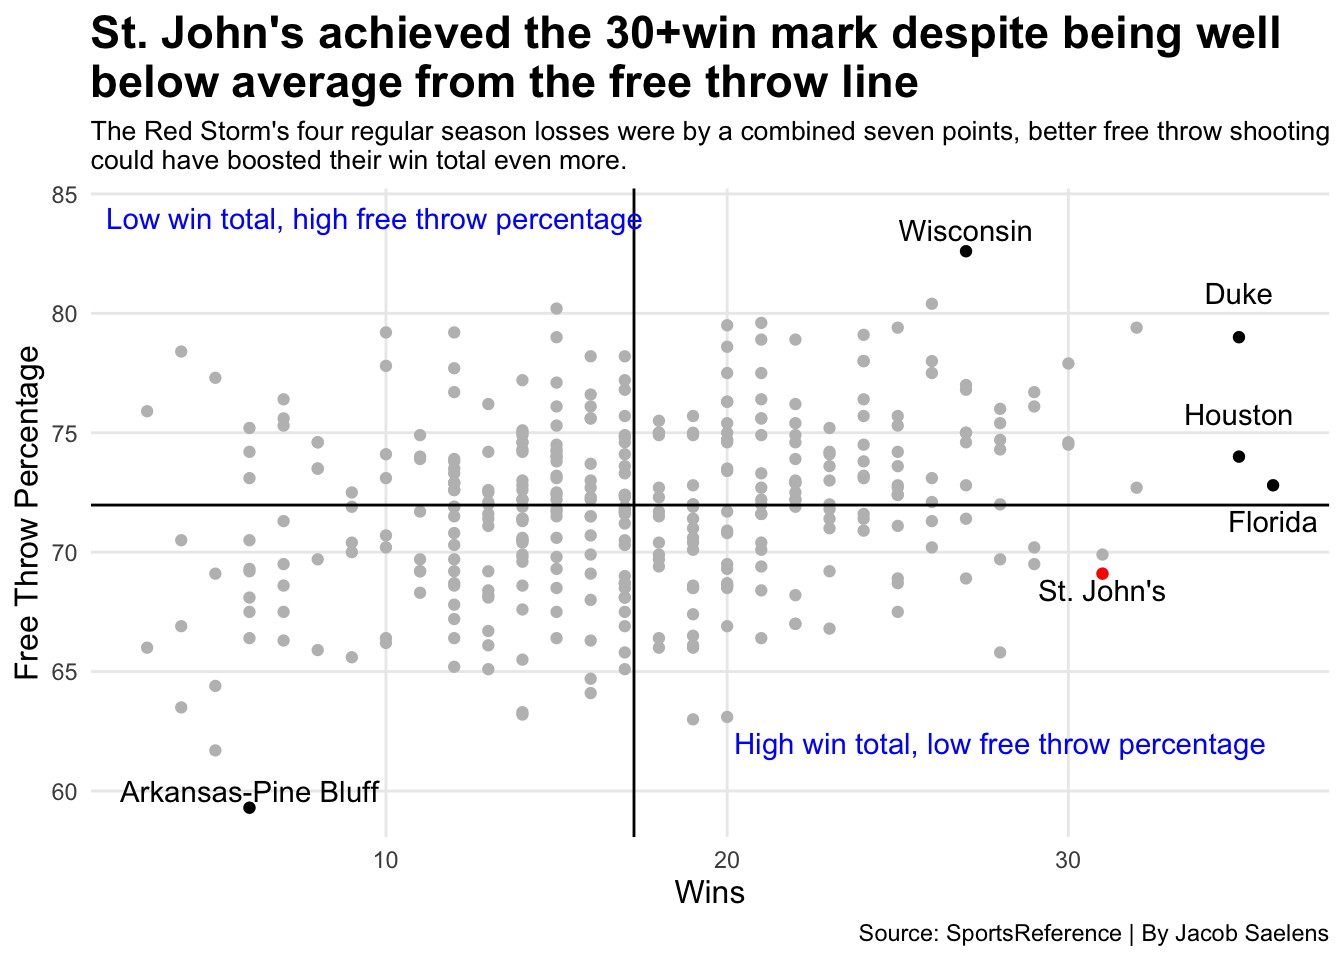
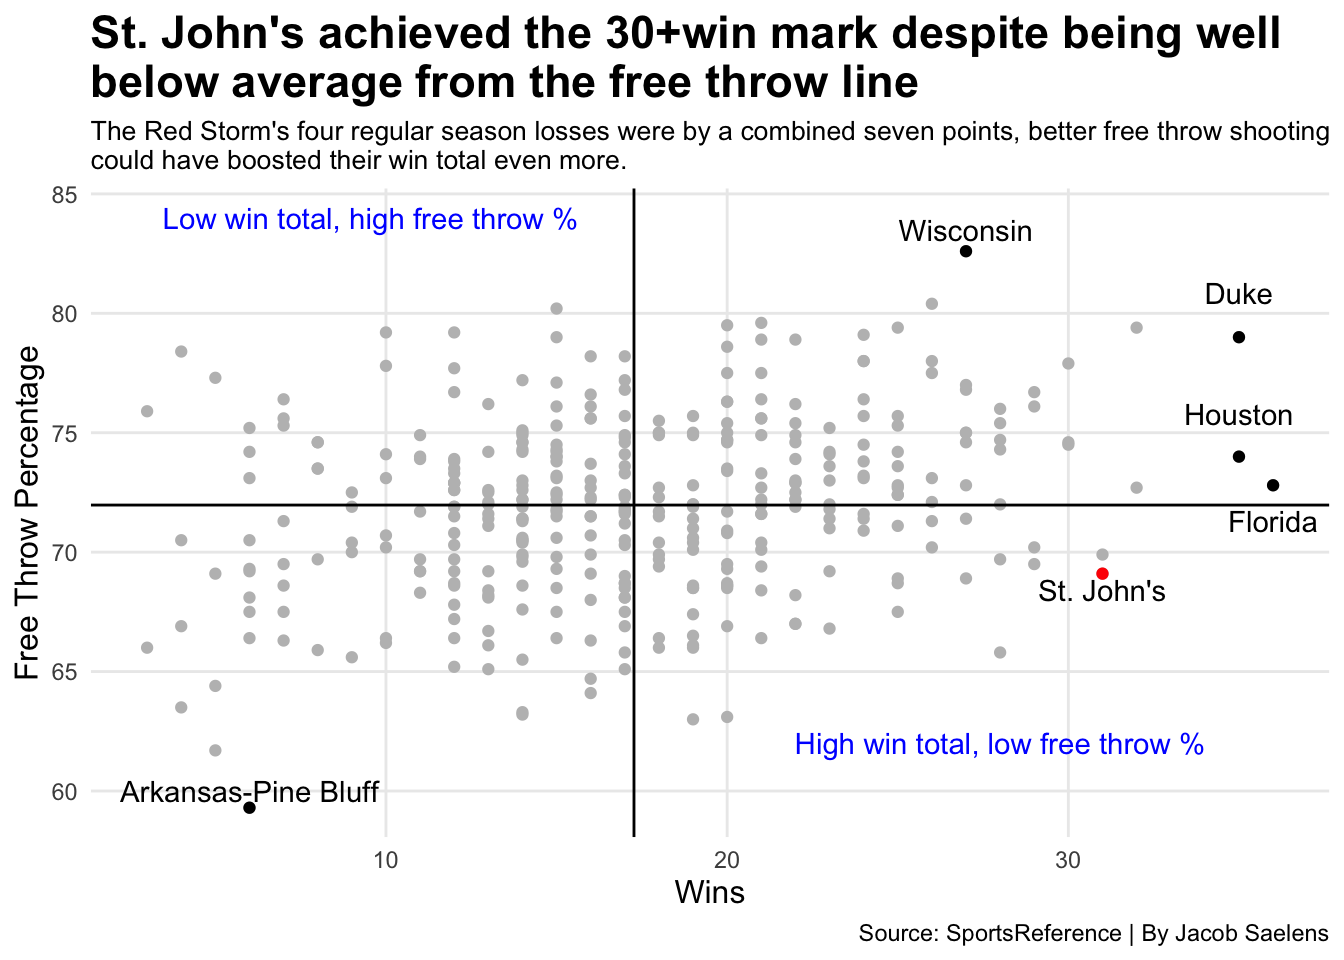
%

Changed region(s): [[0.5312, 0.75, 0.9375, 0.8125], [0.0938, 0.2188, 0.4688, 0.25]]

diff --git a/posts/st-johns-basketball-offense-defense/index.html b/posts/st-johns-basketball-offense-defense/index.html
@@ -232,8 +232,8 @@ pre > code.sourceCode > span > a:first-child::before { text-decoration: underlin
 <span id="cb1-28"><a href="#cb1-28" aria-hidden="true" tabindex="-1"></a>  <span class="fu">geom_text</span>(<span class="fu">aes</span>(<span class="at">x=</span><span class="dv">35</span>, <span class="at">y=</span><span class="fl">75.77</span>, <span class="at">label=</span><span class="st">"Houston"</span>), <span class="at">color=</span><span class="st">"black"</span>) <span class="sc">+</span></span>
 <span id="cb1-29"><a href="#cb1-29" aria-hidden="true" tabindex="-1"></a>  <span class="fu">geom_text</span>(<span class="fu">aes</span>(<span class="at">x=</span><span class="dv">31</span>, <span class="at">y=</span><span class="fl">68.40</span>, <span class="at">label=</span><span class="st">"St. John's"</span>), <span class="at">color=</span><span class="st">"black"</span>) <span class="sc">+</span></span>
 <span id="cb1-30"><a href="#cb1-30" aria-hidden="true" tabindex="-1"></a>  <span class="fu">geom_text</span>(<span class="fu">aes</span>(<span class="at">x=</span><span class="dv">6</span>, <span class="at">y=</span><span class="dv">60</span>, <span class="at">label=</span><span class="st">"Arkansas-Pine Bluff"</span>), <span class="at">color=</span><span class="st">"black"</span>) <span class="sc">+</span></span>
-<span id="cb1-31"><a href="#cb1-31" aria-hidden="true" tabindex="-1"></a>  <span class="fu">geom_text</span>(<span class="fu">aes</span>(<span class="at">x=</span><span class="dv">28</span>, <span class="at">y=</span><span class="dv">62</span>, <span class="at">label=</span><span class="st">"High win total, low free throw percentage"</span>), <span class="at">color=</span><span class="st">"blue"</span>) <span class="sc">+</span></span>
-<span id="cb1-32"><a href="#cb1-32" aria-hidden="true" tabindex="-1"></a>  <span class="fu">geom_text</span>(<span class="fu">aes</span>(<span class="at">x=</span><span class="fl">9.55</span>, <span class="at">y=</span><span class="dv">84</span>, <span class="at">label=</span><span class="st">" Low win total, high free throw percentage"</span>), <span class="at">color=</span><span class="st">"blue"</span>) <span class="sc">+</span></span>
+<span id="cb1-31"><a href="#cb1-31" aria-hidden="true" tabindex="-1"></a>  <span class="fu">geom_text</span>(<span class="fu">aes</span>(<span class="at">x=</span><span class="dv">28</span>, <span class="at">y=</span><span class="dv">62</span>, <span class="at">label=</span><span class="st">"High win total, low free throw %"</span>), <span class="at">color=</span><span class="st">"blue"</span>) <span class="sc">+</span></span>
+<span id="cb1-32"><a href="#cb1-32" aria-hidden="true" tabindex="-1"></a>  <span class="fu">geom_text</span>(<span class="fu">aes</span>(<span class="at">x=</span><span class="fl">9.55</span>, <span class="at">y=</span><span class="dv">84</span>, <span class="at">label=</span><span class="st">"Low win total, high free throw %"</span>), <span class="at">color=</span><span class="st">"blue"</span>) <span class="sc">+</span></span>
 <span id="cb1-33"><a href="#cb1-33" aria-hidden="true" tabindex="-1"></a>  <span class="fu">labs</span>(</span>
 <span id="cb1-34"><a href="#cb1-34" aria-hidden="true" tabindex="-1"></a>    <span class="at">x=</span><span class="st">"Wins"</span>, </span>
 <span id="cb1-35"><a href="#cb1-35" aria-hidden="true" tabindex="-1"></a>    <span class="at">y=</span><span class="st">"Free Throw Percentage"</span>, </span>

diff --git a/index.html b/index.html
@@ -205,7 +205,7 @@ window.Quarto = {
 
 <div class="quarto-listing quarto-listing-container-default" id="listing-listing">
 <div class="list quarto-listing-default">
-<div class="quarto-post image-right" data-index="0" data-categories="ncaa,basketball,marchmadness,bigeast,stjohns,pitino,offense,defense" data-listing-date-sort="1713070800000" data-listing-file-modified-sort="1744666607841" data-listing-date-modified-sort="NaN" data-listing-reading-time-sort="7" data-listing-word-count-sort="1228">
+<div class="quarto-post image-right" data-index="0" data-categories="ncaa,basketball,marchmadness,bigeast,stjohns,pitino,offense,defense" data-listing-date-sort="1713070800000" data-listing-file-modified-sort="1744666840843" data-listing-date-modified-sort="NaN" data-listing-reading-time-sort="7" data-listing-word-count-sort="1227">
 <div class="thumbnail">
 <p><a href="./posts/st-johns-basketball-offense-defense/index.html" class="no-external"></a></p><a href="./posts/st-johns-basketball-offense-defense/index.html" class="no-external">
 <p><img loading="lazy" src="./posts/st-johns-basketball-offense-defense/image.png" class="thumbnail-image"></p>
